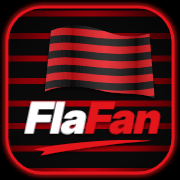
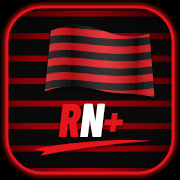
App passa a se chamar RubroNegro+ (nome no topo, textos, manifesto e ícone RN+)
Claude-Session: https://claude.ai/code/session_01KURSQmz2BHfMakW4thM8Jz

Changed region(s): [[0.1111, 0.5556, 0.9167, 0.7778]]

diff --git a/index.html b/index.html
@@ -3,16 +3,16 @@
 <head>
   <meta charset="utf-8">
   <meta name="viewport" content="width=device-width, initial-scale=1, viewport-fit=cover">
-  <title>FlaFan — todos os jogos do Mengão</title>
+  <title>RubroNegro+ — todos os jogos do Mengão</title>
   <meta name="description" content="Todos os jogos do Mengão, em todas as modalidades, e onde assistir.">
   <meta name="theme-color" content="#0B0B0D">
   <link rel="manifest" href="manifest.webmanifest">
   <link rel="icon" href="icons/favicon-64.png">
   <link rel="apple-touch-icon" href="icons/apple-touch-icon.png">
   <meta name="apple-mobile-web-app-capable" content="yes">
-  <meta name="apple-mobile-web-app-title" content="FlaFan">
+  <meta name="apple-mobile-web-app-title" content="RN+">
   <meta name="apple-mobile-web-app-status-bar-style" content="black-translucent">
-  <meta property="og:title" content="FlaFan">
+  <meta property="og:title" content="RubroNegro+">
   <meta property="og:description" content="Todos os jogos do Mengão, em todas as modalidades, e onde assistir. Grátis, direto no celular.">
   <meta property="og:image" content="https://rodrigocantanhede-prog.github.io/flafan/icons/icon-512.png">
   <meta property="og:url" content="https://rodrigocantanhede-prog.github.io/flafan/">
@@ -29,14 +29,14 @@
   <header class="topo">
     <img src="icons/icon-192.png" alt="" class="topo-icone" width="40" height="40">
     <div class="marca-bloco">
-      <div class="marca"><span class="fla">Fla</span><span class="fan">Fan</span></div>
+      <div class="marca"><span class="fan">Rubro</span><span class="fla">Negro</span><span class="fan">+</span></div>
       <div class="marca-sub">Todos os jogos do Mengão</div>
     </div>
     <div class="topo-botoes">
-    <button class="btn-icone" id="abrir-instalar" aria-label="Instalar o FlaFan no celular" title="Instalar no celular">
+    <button class="btn-icone" id="abrir-instalar" aria-label="Instalar o RubroNegro+ no celular" title="Instalar no celular">
       <svg viewBox="0 0 24 24" width="23" height="23" aria-hidden="true" fill="none" stroke="currentColor" stroke-width="2" stroke-linecap="round" stroke-linejoin="round"><rect x="6" y="2.5" width="12" height="19" rx="2.6"/><path d="M12 8v6M9 11h6"/><path d="M10.5 18.5h3"/></svg>
     </button>
-    <button class="btn-icone" id="compartilhar-topo" aria-label="Compartilhar o FlaFan com amigos" title="Compartilhar com amigos">
+    <button class="btn-icone" id="compartilhar-topo" aria-label="Compartilhar o RubroNegro+ com amigos" title="Compartilhar com amigos">
       <svg viewBox="0 0 24 24" width="22" height="22" aria-hidden="true" fill="none" stroke="currentColor" stroke-width="2" stroke-linecap="round" stroke-linejoin="round"><path d="M12 3v12M8 7l4-4 4 4"/><path d="M6 11H5a1 1 0 0 0-1 1v8a1 1 0 0 0 1 1h14a1 1 0 0 0 1-1v-8a1 1 0 0 0-1-1h-1"/></svg>
     </button>
     <button class="btn-icone" id="contato-topo" data-abrir-contato aria-label="Fale com a gente: sugestões, erros ou anúncios" title="Fale com a gente">
@@ -79,9 +79,9 @@
       <svg viewBox="0 0 24 24" width="18" height="18" aria-hidden="true" fill="none" stroke="currentColor" stroke-width="2" stroke-linecap="round" stroke-linejoin="round"><path d="M21 12a8 8 0 0 1-11.6 7.1L4 20.5l1.4-5A8 8 0 1 1 21 12Z"/></svg>
       Fale com a gente
     </button>
-    <span class="rodape-chamada">Sugestões, erros ou quer anunciar no FlaFan? Mande uma mensagem.</span>
+    <span class="rodape-chamada">Sugestões, erros ou quer anunciar no RubroNegro+? Mande uma mensagem.</span>
     <span id="atualizado"></span>
-    <span>FlaFan é um app de torcedor, sem vínculo oficial com o clube.</span>
+    <span>RubroNegro+ é um app de torcedor, sem vínculo oficial com o clube.</span>
   </footer>
 
   <dialog id="instalar" class="painel">
@@ -90,14 +90,14 @@
         <h2>Instalar o app</h2>
         <button class="btn-icone" value="fechar" aria-label="Fechar">✕</button>
       </div>
-      <div class="instalar-app"><img src="icons/icon-192.png" alt="" width="56" height="56"><div><b>FlaFan</b><span>Fica na tela inicial como um app, abre em tela cheia e funciona sem internet.</span></div></div>
-      <button type="button" class="btn instalar-direto" id="instalar-direto" hidden>Instalar FlaFan</button>
+      <div class="instalar-app"><img src="icons/icon-192.png" alt="" width="56" height="56"><div><b>RubroNegro+</b><span>Fica na tela inicial como um app, abre em tela cheia e funciona sem internet.</span></div></div>
+      <button type="button" class="btn instalar-direto" id="instalar-direto" hidden>Instalar RubroNegro+</button>
       <section class="passos" data-sistema="ios">
         <h3>No iPhone (Safari)</h3>
         <ol>
           <li>Toque em <b>Compartilhar</b> <span class="ic-passo" aria-hidden="true"><svg viewBox="0 0 24 24" width="18" height="18" fill="none" stroke="currentColor" stroke-width="2" stroke-linecap="round" stroke-linejoin="round"><path d="M12 3v12M8 7l4-4 4 4"/><path d="M6 11H5a1 1 0 0 0-1 1v8a1 1 0 0 0 1 1h14a1 1 0 0 0 1-1v-8a1 1 0 0 0-1-1h-1"/></svg></span> na barra do Safari (embaixo ou em cima, ao lado do endereço).</li>
           <li>Role a lista e toque em <b>Adicionar à Tela de Início</b> <span class="ic-passo" aria-hidden="true"><svg viewBox="0 0 24 24" width="18" height="18" fill="none" stroke="currentColor" stroke-width="2" stroke-linecap="round"><rect x="3.5" y="3.5" width="17" height="17" rx="4"/><path d="M12 8v8M8 12h8"/></svg></span>.</li>
-          <li>Toque em <b>Adicionar</b>. Pronto: o ícone do FlaFan aparece na sua tela inicial.</li>
+          <li>Toque em <b>Adicionar</b>. Pronto: o ícone do RubroNegro+ aparece na sua tela inicial.</li>
         </ol>
         <p class="ajuda">No Chrome do iPhone, o botão Compartilhar fica no canto de cima, ao lado do endereço.</p>
       </section>
@@ -106,7 +106,7 @@
         <ol>
           <li>Toque no menu <b>⋮</b> (três pontinhos, no canto de cima).</li>
           <li>Toque em <b>Instalar app</b> ou <b>Adicionar à tela inicial</b>.</li>
-          <li>Confirme em <b>Instalar</b>. O ícone do FlaFan aparece junto com os seus apps.</li>
+          <li>Confirme em <b>Instalar</b>. O ícone do RubroNegro+ aparece junto com os seus apps.</li>
         </ol>
       </section>
       <button type="button" class="btn compartilhar-amigos" id="compartilhar">
@@ -125,7 +125,7 @@
         <button type="button" class="btn-icone" data-fechar-contato aria-label="Fechar">✕</button>
       </div>
       <div class="contato-corpo">
-        <p class="ajuda">Sua mensagem chega direto para quem cuida do FlaFan.</p>
+        <p class="ajuda">Sua mensagem chega direto para quem cuida do RubroNegro+.</p>
         <fieldset class="contato-tipos">
           <legend>Assunto</legend>
           <label><input type="radio" name="tipo" value="sugestao" checked><span>💡 Sugestão</span></label>
@@ -153,7 +153,7 @@
       <div class="contato-ok" hidden>
         <div class="contato-ok-icone">✓</div>
         <h3>Mensagem enviada!</h3>
-        <p>Obrigado por ajudar a melhorar o FlaFan. Se você deixou um contato, a gente responde por lá.</p>
+        <p>Obrigado por ajudar a melhorar o RubroNegro+. Se você deixou um contato, a gente responde por lá.</p>
         <button type="button" class="btn" data-fechar-contato>Fechar</button>
       </div>
     </form>
@@ -168,7 +168,7 @@
 
       <section>
         <h3>📅 Lembrete na agenda do celular</h3>
-        <p class="ajuda">Os jogos entram na agenda do seu celular e, se um jogo mudar, a agenda se atualiza sozinha. No iPhone, o alerta toca <b>1 hora antes</b>; no Google Agenda, ative as notificações do calendário FlaFan nas configurações da agenda.</p>
+        <p class="ajuda">Os jogos entram na agenda do seu celular e, se um jogo mudar, a agenda se atualiza sozinha. No iPhone, o alerta toca <b>1 hora antes</b>; no Google Agenda, ative as notificações do calendário RubroNegro+ nas configurações da agenda.</p>
         <label class="campo">Quais jogos?
           <select id="cal-modalidade"></select>
         </label>
@@ -184,7 +184,7 @@
         <p class="ajuda">Escolha as modalidades que você acompanha:</p>
         <div id="pref-modalidades" class="checks"></div>
         <button type="button" class="btn" id="ativar-push" disabled>Ativar notificações (em breve)</button>
-        <p class="ajuda pequena" id="push-ajuda">No iPhone, primeiro instale o FlaFan na tela inicial (Compartilhar → “Adicionar à Tela de Início”).</p>
+        <p class="ajuda pequena" id="push-ajuda">No iPhone, primeiro instale o RubroNegro+ na tela inicial (Compartilhar → “Adicionar à Tela de Início”).</p>
       </section>
     </form>
   </dialog>

diff --git a/app.js b/app.js
@@ -687,12 +687,12 @@ function avisar(texto) {
   clearTimeout(avisar.tempo); avisar.tempo = setTimeout(() => { t.hidden = true; }, 2600);
 }
 $('#compartilhar').onclick = $('#compartilhar-topo').onclick = async () => {
-  const dados = { title: 'FlaFan', text: 'Todos os jogos do Mengão em um app: futebol, base, feminino, basquete, vôlei e mais. Instala aí:', url: linkConvite() };
+  const dados = { title: 'RubroNegro+', text: 'Todos os jogos do Mengão em um app: futebol, base, feminino, basquete, vôlei e mais. Instala aí:', url: linkConvite() };
   try {
     if (navigator.share) { await navigator.share(dados); return; }
   } catch (e) { if (e?.name === 'AbortError') return; }
   try { await navigator.clipboard.writeText(`${dados.text} ${dados.url}`); avisar('Link copiado! Cole no WhatsApp para mandar.'); }
-  catch { prompt('Copie o link do FlaFan:', dados.url); }
+  catch { prompt('Copie o link do RubroNegro+:', dados.url); }
 };
 window.addEventListener('beforeinstallprompt', (e) => { e.preventDefault(); pedidoInstalar = e; $('#instalar-direto').hidden = false; });
 window.addEventListener('appinstalled', () => { $('#instalar-direto').hidden = true; });
@@ -782,8 +782,8 @@ async function compartilharJogo(id) {
   const j = estado.jogos.find((x) => x.id === id);
   if (!j) return;
   const url = `${location.origin}${location.pathname.replace(/index\.html$/, '')}?jogo=${encodeURIComponent(j.id)}`;
-  const texto = `${textoDoJogo(j)}\n\nVeja no FlaFan:`;
-  try { if (navigator.share) { await navigator.share({ title: 'FlaFan', text: texto, url }); return; } }
+  const texto = `${textoDoJogo(j)}\n\nVeja no RubroNegro+:`;
+  try { if (navigator.share) { await navigator.share({ title: 'RubroNegro+', text: texto, url }); return; } }
   catch (e) { if (e?.name === 'AbortError') return; }
   try { await navigator.clipboard.writeText(`${texto} ${url}`); avisar('Jogo copiado! Cole no WhatsApp para mandar.'); }
   catch { prompt('Copie o link do jogo:', url); }

diff --git a/sw.js b/sw.js
@@ -1,5 +1,5 @@
 // FlaFan — permite abrir o app mesmo sem internet (mostra a última lista baixada).
-const VERSAO = 'flafan-v56';
+const VERSAO = 'flafan-v57';
 const ARQUIVOS = ['./', 'index.html', 'styles.css', 'app.js', 'manifest.webmanifest', 'icons/icon-192.png', 'icons/icon-512.png',
   'fonts/inter-latin-variavel.woff2', 'fonts/barlow-latin-400-normal.woff2', 'fonts/barlow-latin-500-normal.woff2', 'fonts/barlow-latin-600-normal.woff2', 'fonts/barlow-latin-700-normal.woff2',
   'fonts/barlow-condensed-latin-600-normal.woff2', 'fonts/barlow-condensed-latin-700-normal.woff2', 'fonts/barlow-condensed-latin-800-normal.woff2', 'fonts/barlow-condensed-latin-800-italic.woff2'];

diff --git a/styles.css b/styles.css
@@ -904,3 +904,9 @@ html { scrollbar-width: thin; scrollbar-color: color-mix(in srgb, var(--texto) 2
 
 /* canal na internet (YouTube etc.) vira link */
 .canal-link { color: inherit; font-weight: 700; text-decoration: underline; text-decoration-thickness: 1px; text-underline-offset: 2px; }
+
+/* nome "RubroNegro+" (mais comprido): cabe inteiro ao lado dos 5 botões */
+.marca { white-space: nowrap; }
+@media (max-width: 430px) { .marca { font-size: 24px; } }
+@media (max-width: 400px) { .marca { font-size: 22px; } }
+@media (max-width: 345px) { .marca { font-size: 21px; } }
